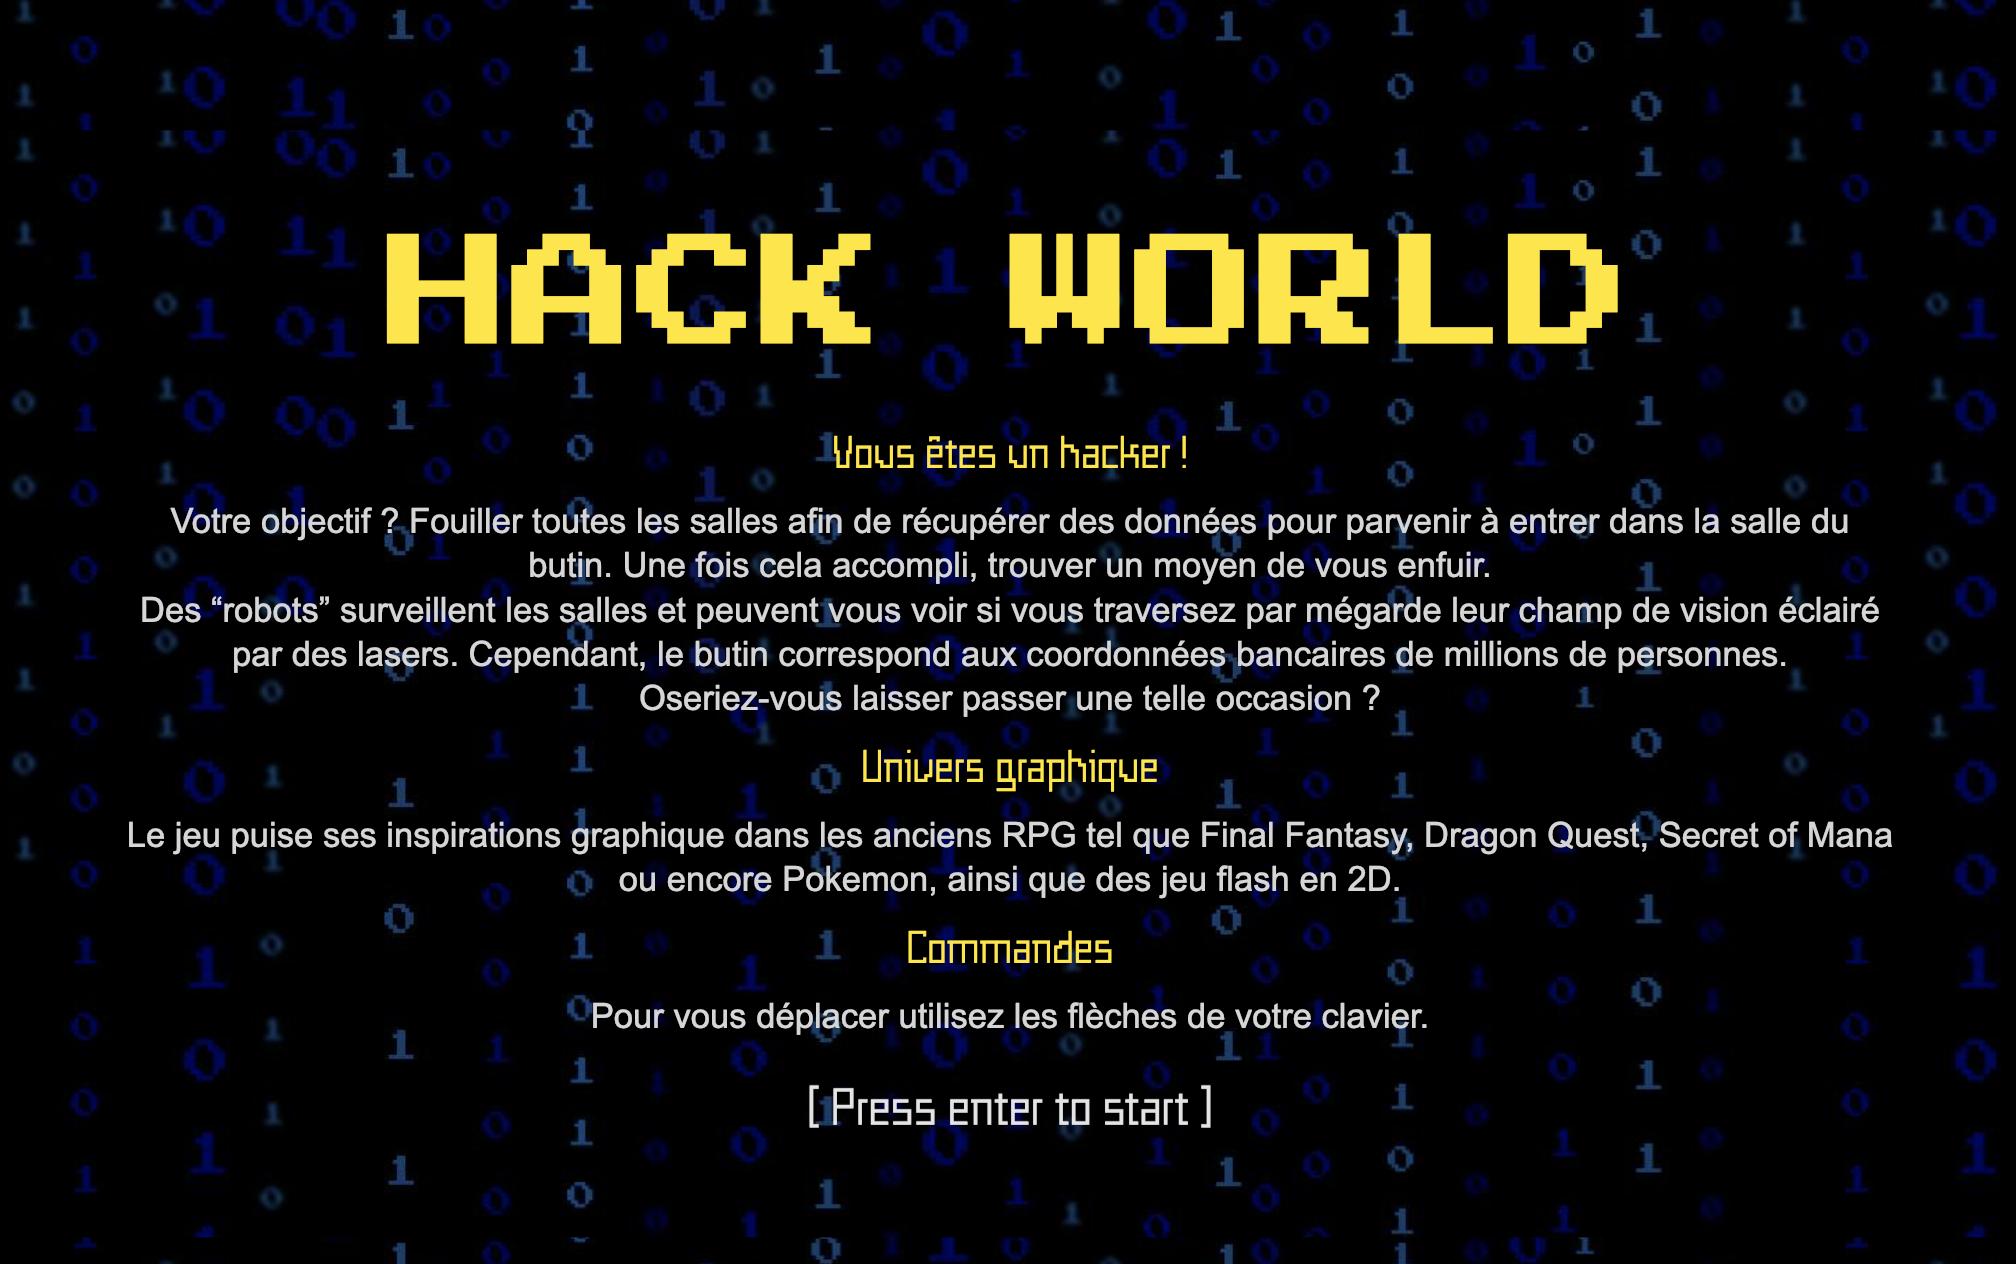
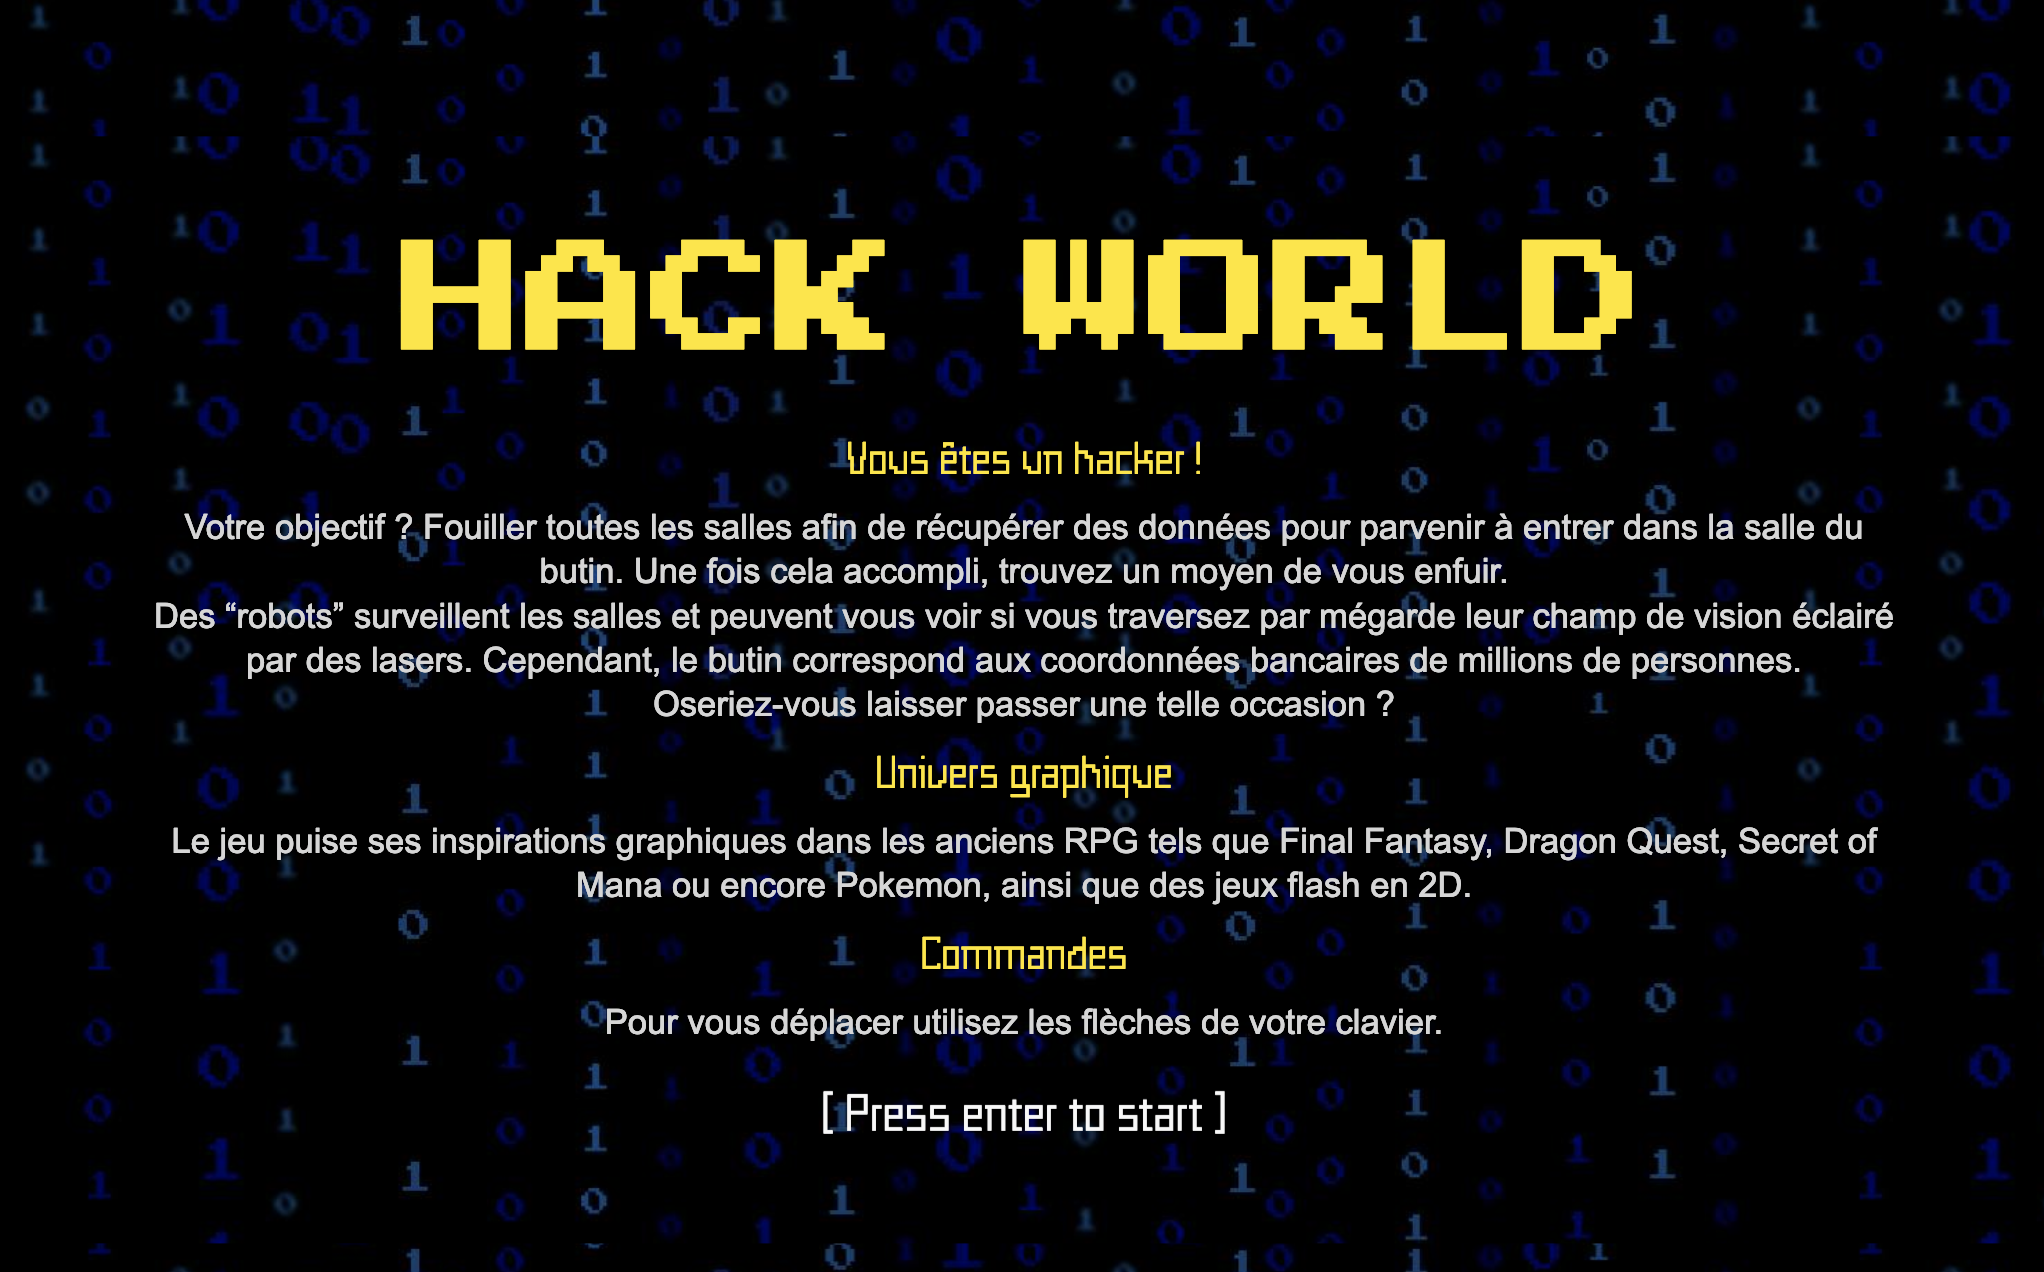
Petite flèche retour ajouter dans le promier projet en preview et rectification d'un problème dans la page À propos

diff --git a/src/screens/about.html b/src/screens/about.html
@@ -38,8 +38,8 @@
   <div class="button__border"></div>
   <div class="button__content" id="button">Me contacter</div>
 
-  <section id="popup">
-    <h2 class="popup__title">Contactez moi pour plus d'informations</h2>
+  <section class="popup" id="popup">
+    <h2 class="popup__title" id="popupTitle">Contactez moi pour plus d'informations</h2>
     <a class="popup__gmail" href="mailto:lescouarnec91@gmail.com">lescouarnec91@gmail.com</a>
     <a class="popup__github" href="https://github.com/MoiraLS" target="blank">https://github.com/MoiraLS</a>
     <a class="popup__linkedin" href="https://www.linkedin.com/in/maellelescouarnec/" target="blank">https://www.linkedin.com/in/maellelescouarnec/</a>

diff --git a/src/screens/first_project.html b/src/screens/first_project.html
@@ -25,7 +25,12 @@
   <h1 class="firstProject__title">Projet : HackWorld</h1>
 
   <div class="firstProject__deco"></div>
+  <!-- Corriger la faute d'orthographe dans l'image puis la compresser -->
   <img class="firstProject__preview" src="../img/hackworldHome.png" alt="Preview">
+
+  <div class="back">
+    <a class="back__link" href="./projects.html"><img class="back__arrow" src="../img/left.svg" alt="Retour"><span class="back__title">Retour</span></a>
+  </div>
 
 </body>
 

diff --git a/src/scss/blocs/first_project.scss b/src/scss/blocs/first_project.scss
@@ -15,3 +15,25 @@
   transform: translateX(-50%);
   background: $square-picture;
 }
+
+
+.back {
+  position: absolute;
+  bottom: 5%;
+  left: 5%;
+  align-items: center;
+
+  .back__arrow {
+    width: 5%;
+    margin-right: 3%;
+  }
+  
+  .back__title {
+    color: $square-picture;
+  }
+
+  .back__link {
+    display: flex;
+    align-items: center;
+  }
+}

diff --git a/src/scss/config/colors.scss b/src/scss/config/colors.scss
@@ -1,4 +1,4 @@
-$first-color: hsl(343, 100%, 9%);
+$first-color: #2d000d;
 $bookmark-color: radial-gradient(#f41162, #6d0043);
 $square-color: radial-gradient(#b10c46, #5f041e);
-$square-picture: hsl(338, 87%, 22%);
+$square-picture: #68072b;
